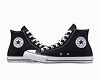
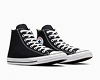
Add files via upload

diff --git a/script/detail.js b/script/detail.js
@@ -5,6 +5,71 @@
 //DOM Node : 작은썸네일이미지, 우측 큰이미지
 // 속성, 메소드 , 이벤트 : 1.'mouseover' 마우스를 올렸다. 2. classList 테두리가 적용된다. 제거된다. 3. 나타났다. image변수 src변경
 
-const thumnail = document.querySelector ('.thumnail a img');
+const thumNail = document.querySelectorAll ('.photo .thumnail a img');
 const bigImage = document.querySelector ('.photo .big img');
-console.log(thumnail,bigImage);
+console.log(thumNail , bigImage);
+console.log(thumNail[0].src , bigImage.src);
+console.log(thumNail[0].parentElement);
+
+//모든함수에 적용되는 값 
+function thum_remove() {
+    thumNail[0].parentElement.classList.remove('active');
+    thumNail[1].parentElement.classList.remove('active');
+    thumNail[2].parentElement.classList.remove('active');
+}
+
+function bigSrc(num){
+    return bigImage.src = `./images/bigimg${num}.jpg`; 
+}
+
+//썸네일(thum.jpg)에 마우스를 올렸을 떄 큰 이미지 경로가 그에 맞는 big.jpg로 변경
+thumNail[0].addEventListener('mouseover',()=>{
+    bigSrc(0);
+    thum_remove();
+    thumNail[0].parentElement.classList = 'active';
+})
+thumNail[1].addEventListener('mouseover',()=>{
+    bigSrc(1);
+    thum_remove();
+    thumNail[1].parentElement.classList = 'active';
+})
+thumNail[2].addEventListener('mouseover',()=>{
+    bigSrc(2);
+    thum_remove();
+    thumNail[2].parentElement.classList = 'active';
+})
+
+//주문금액 + 주문수량 js
+let price = 67500; //주문금액 (콤마치면 문자처리되니까 x)
+let number = 0; //주문수량
+let totalPrice = 0; // 총 가격 저장변수
+const productNum = document.querySelector('#product_num'); //수량표시dom
+const plusBtn = document.querySelector('#plus'); //수량증가버튼dom
+const minusBtn = document.querySelector('#minus'); //수량감소버튼DOM
+const orderPrice = document.querySelector('.order_price .price'); //price만 적으면 다른게 잡힐 수있으니까 그 부모까지 적어주기
+console.log(productNum, plusBtn,minusBtn, orderPrice);
+
+
+//수량 주문금액 초기값 세팅하기
+productNum.value = number; //productNum은 input이니까 속성에 값을 넣기위해 .value를 적어야함
+orderPrice.innerText = price*number; //금액*수량 
+
+//1. +버튼 클릭 시
+plusBtn.addEventListener('click',()=>{
+    //2. 수량 1 증가(최종수량1)
+    number++; //증감연산자
+    productNum.value = number;
+    //3. 수량에 따라 주문금액이 증가 67500*1
+    totalPrice = price*number;
+    orderPrice.innerText = totalPrice.toLocaleString('ko-kr');
+})
+
+//1. -버튼 클릭 시
+minusBtn.addEventListener('click',()=>{
+    //2. 수량 1 감소
+    number--;
+    productNum.value = number;
+    //3. 수량 감소에 따라 주문금액 감소
+    totalPrice = price*number;
+    orderPrice.innerText = totalPrice.toLocaleString('ko-kr');
+})

diff --git a/styles/detail.css b/styles/detail.css
@@ -66,16 +66,29 @@ main .order_wrap .content .color .coloroption a {margin-right:15px;}
 main .order_wrap .content .color .coloroption a:last-child {margin:0;}
 main .order_wrap .content .color .coloroption a img {}
 /* 색상옵션끝 */
-main .order_wrap .content .size {background-color:pink; margin:40px 0;}
+main .order_wrap .content .size {margin:40px 0;}
 main .order_wrap .content .size dt {margin-bottom:15px;}
 main .order_wrap .content .size dd {}
-main .order_wrap .content .size dd .opt_btn {display:flex;}
-main .order_wrap .content .size dd .opt_btn li {}
+main .order_wrap .content .size dd .opt_btn { text-align:center; width:386px;}
+main .order_wrap .content .size dd .opt_btn li {
+    display:inline-block; padding:10px 15px;
+    border:1px solid #aaa;
+    margin-bottom:10px;
+}
+main .order_wrap .content .size dd .opt_btn li:nth-child(6),
+main .order_wrap .content .size dd .opt_btn li:nth-child(7),
+main .order_wrap .content .size dd .opt_btn li:nth-child(8),
+main .order_wrap .content .size dd .opt_btn li:nth-child(9),
+main .order_wrap .content .size dd .opt_btn li:nth-child(10),
+main .order_wrap .content .size dd .opt_btn li:nth-child(11),
+main .order_wrap .content .size dd .opt_btn li:nth-child(12) {margin:0;}
 main .order_wrap .content .size dd .opt_btn li a {}
 /* 사이즈옵션끝 */
 main .order_wrap .content .num {text-align:right;}
 main .order_wrap .content .num button {width:25px; height:25px;}
-main .order_wrap .content .num #product_num {border:1px solid #ccc; width:50px; border-radius:5px;}
+main .order_wrap .content .num #product_num {
+    text-align:center;
+    border:1px solid #ccc; width:50px; border-radius:5px;}
 /* 주문수량 끝*/
 main .order_wrap .content .order_price {
     display:flex; justify-content:space-between;

diff --git a/detail.html b/detail.html
@@ -30,12 +30,12 @@
         <div class="order_wrap">
             <div class="photo">
                 <div class="big">
-                    <img src="./images/bigimg.jpg" alt="">
+                    <img src="./images/bigimg0.jpg" alt="">
                 </div>
                 <div class="thumnail">
-                    <a href="#" class="active"><img src="./images/thumnail.jpg" alt=""></a>
+                    <a href="#" class="active"><img src="./images/thumnail0.jpg" alt=""></a>
+                    <a href="#"><img src="./images/thumnail1.jpg" alt=""></a>
                     <a href="#"><img src="./images/thumnail2.jpg" alt=""></a>
-                    <a href="#"><img src="./images/thumnail3.jpg" alt=""></a>
                 </div>
             </div>
             <div class="content">
@@ -85,12 +85,12 @@
                 </dl>
                 <div class="num">
                     <button type="button" id="minus">-</button>
-                    <input type="number" name="product_num" id="product_num">
+                    <input type="number" name="product_num" id="product_num" value="1">
                     <button type="button" id="plus">+</button>
                 </div>
                 <div class="order_price">
                     <h2>주문금액</h2>
-                    <p><em class="price"><!-- 0 --></em>원</p>
+                    <p><em class="price">67,500</em>원</p>
                 </div>
                 <div class="order_btn">
                     <button type="button" id="cart_btn">CART</button>
